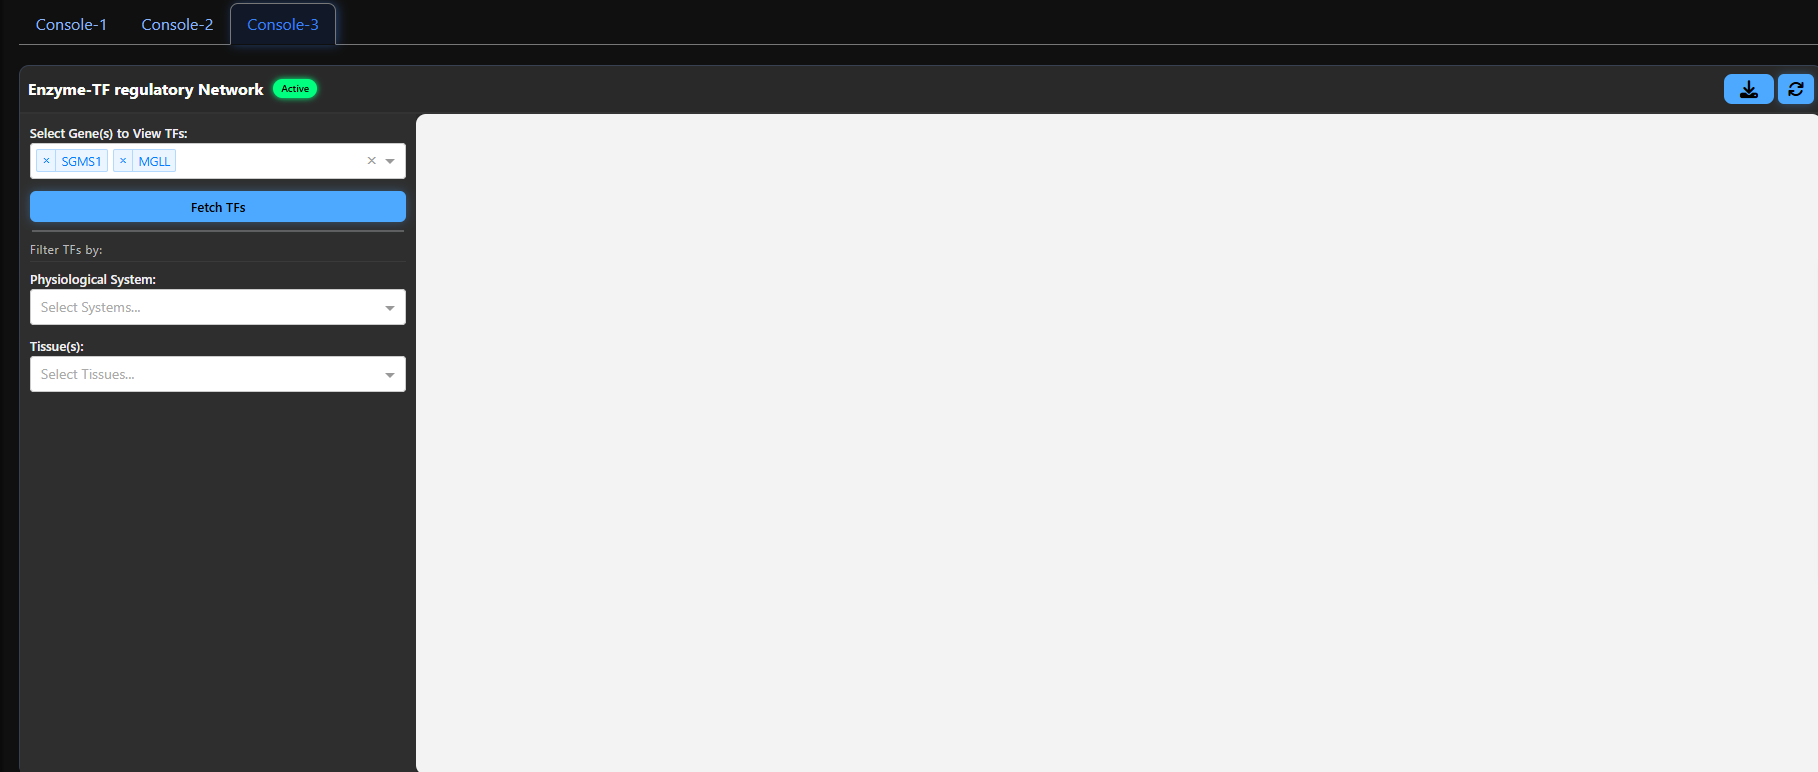
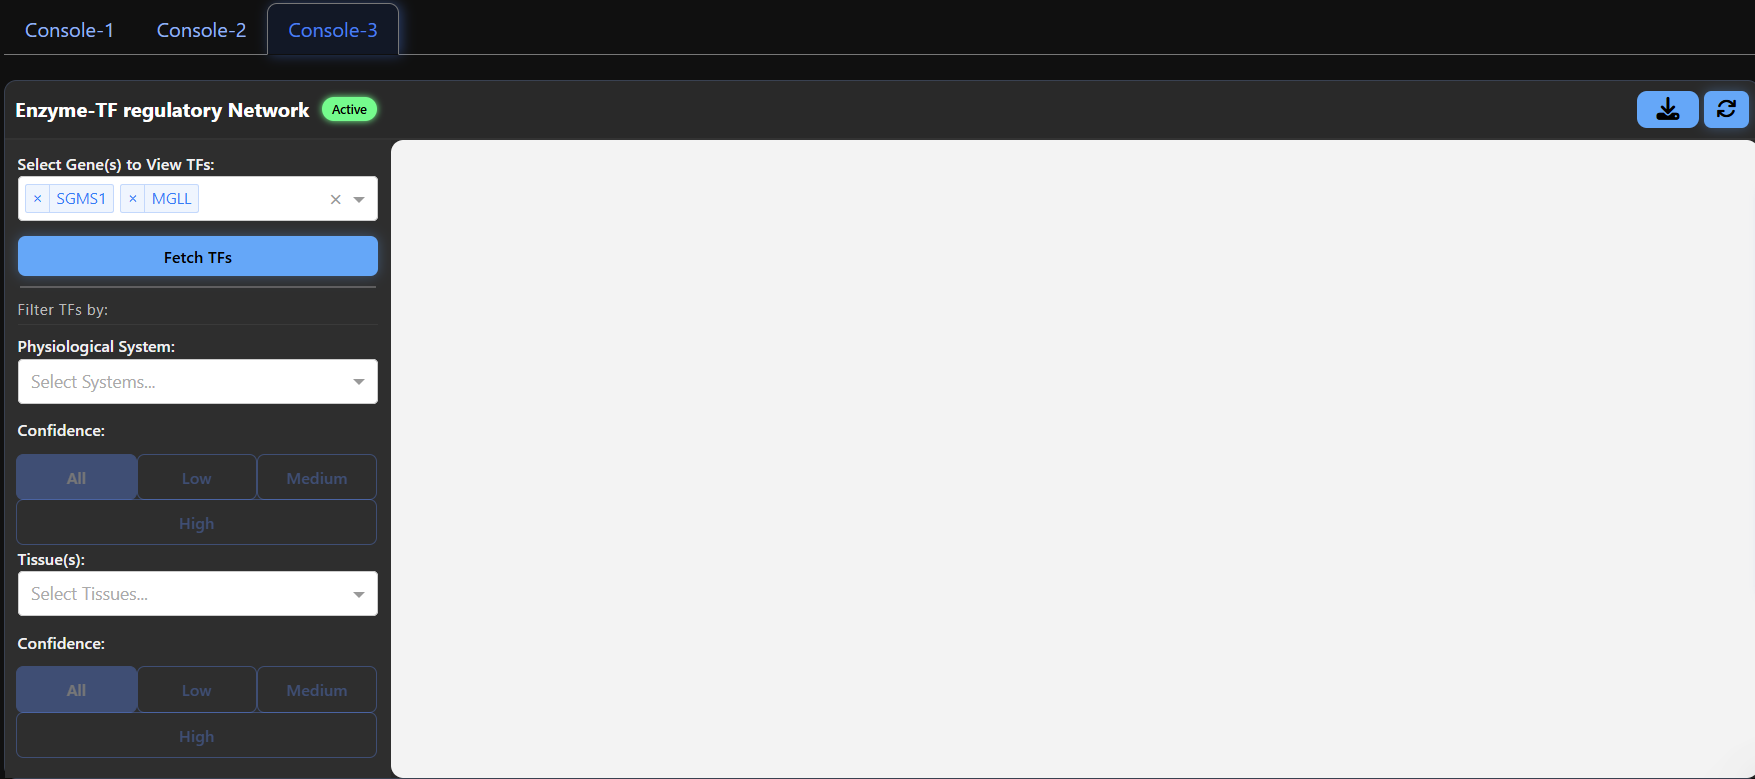
1. edited the tutorial 2. added the new video

diff --git a/src/pages/tutorial.py b/src/pages/tutorial.py
@@ -177,6 +177,7 @@ def InterpretationPanel(title="Output Interpretation", description=None, items=N
                     "color": "#d1d5db",
                     "lineHeight": "1.6",
                     "marginBottom": "12px",
+                    # "whiteSpace": "pre-line",
                 },
             ) if description else None,
 
@@ -274,16 +275,14 @@ section3 = HelpSection(
                             ),
 
         StepCard(1,header=None,description='''
-                    Select one or more enzymatic genes of interest or corresponding to 
-                    console 2 and click on the option “Fetch TFs” to retrieve corresponding 
-                    transcription factors in the regulatory network panel.
+                    Select one or more enzymatic genes of interest or corresponding to console 2 and click on the option “Fetch TFs” to retrieve corresponding transcription factors in the regulatory network panel.
                     ''',
                     points=[]
                  ), 
         FigurePlaceholder(src="assets/fig15_15.png",caption=None),
         
-        InterpretationPanel(description='''
-                           Feature: Console 3 renders a TF–gene regulatory network for the selected 
+        InterpretationPanel(title="Feature 1",description='''
+                            Console 3 renders a TF–gene regulatory network for the selected 
                             enzymatic genes, displaying the queried genes as green nodes and their 
                             corresponding transcription factors as pink rectangular nodes linked by regulatory 
                             interactions.
@@ -294,36 +293,59 @@ section3 = HelpSection(
         FigurePlaceholder(src="assets/fig16_16.png",caption=None),
         
     
-        InterpretationPanel(description='''
-                           Feature:  Filter the TFs regulating the query-associated enzymes by selecting a 
-                            Physiological System, such as “Gastrointestinal,” to restrict the TF–gene regulatory 
-                            network to that biological context.
-                            ''',
+        InterpretationPanel(title="Feature 2",description='''
+                            Filter the TFs regulating the query-associated enzymes by selecting a Physiological System, such as “Gastrointestinal,” which restricts the TF–gene regulatory network to that specific biological context. By default, the network displays all transcription factors corresponding to the selected physiological system for the queried enzymatic genes.
+                            ''', 
                             items=[
                             ]),
         
         FigurePlaceholder(src="assets/fig17_17.png",caption=None),
         
-        InterpretationPanel(description='''
-                            Feature: After selecting a physiological system, choose a tissue (e.g., 
-                            Gastrointestinal: stomach) to display only those TF regulators supported for the 
-                            query enzymes in that tissue context.
+        
+        
+        InterpretationPanel(title="Feature 3",description=['''
+                            The evidence table renders all TF regulators associated with the queried enzymatic genes across the corresponding tissues. Each row in the table represents a TF–gene interaction in respective tissue context, supporting experimental and associated PubMed literature references (if available), and the corresponding confidence score classes derived from physiological system–based and tissue-based recurrence scoring.
+                            ''',
+                            html.Br(),
+                            html.Br(),
+                            '''
+                            For instance, for the queried enzymatic gene MGLL, TF regulators such as ATF3, CDX2, and CEBPB are displayed across tissues, including colon, bone, and leukocytes, together with supporting PMIDs and their assigned Physiological Confidence and Tissue Confidence labels.
+                            '''],
+                            items=[ 
+                            ]),
+        
+        FigurePlaceholder(src="assets/fig20_20.png",caption=None),
+        
+        
+        
+        InterpretationPanel(title="Feature 4",description='''
+                            After selecting a Physiological System, users can further refine the results by choosing a specific tissue (e.g., Gastrointestinal: stomach). By default, all TF regulators and corresponding evidence entries supported within the selected tissue are displayed in both the TF gene regulatory network and the evidence table.
                             ''',
                             items=[
                             ]),
         
         FigurePlaceholder(src="assets/fig18_18.png",caption=None),
         
-        InterpretationPanel(description='''
-                           Feature: The evidence table lists the transcription factors queried for the selected 
-                            target genes (e.g., SGMS1 and MGLL) and summarizes their tissue-specific 
-                            regulatory interactions supported by SPP evidence, cell-line annotations, and 
-                            PubMed literature indexed in ChEA3, TRRUST v2, and SIGNOR, where available.
+        InterpretationPanel(title="Feature 5",description=[
+                            '''
+                            Users can further refine the TF–gene regulatory network by selecting a confidence class (High, Medium, or Low) under the Physiological System filter to display only TF regulators belonging to the chosen confidence category for the queried enzymatic genes.
                             ''',
+                            html.Br(),
+                            html.Br(),
+                            '''
+                            For example, when the user selects High confidence under the Gastrointestinal physiological system for SGMS1 and MGLL, the network displays only the high-confidence TF regulators supported within that physiological system, as shown in the figure.
+                            ''',
+                            html.Br(),
+                            html.Br(),
+                            '''
+                            If the user selects the High confidence option under the Tissue filter without choosing any specific tissue, the network displays TF regulators that are high-confidence within the selected physiological system, irrespective of tissue context. In this case, regulators such as YY1 and USF1 are excluded, indicating that they do not belong to the high-confidence class under the selected filter.
+                            '''
+                            ],
                             items=[
                             ]),
         
         FigurePlaceholder(src="assets/fig19_19.png",caption=None),
+        FigurePlaceholder(src="assets/fig21_21.png",caption=None),
     ]
 )
 
@@ -343,8 +365,8 @@ section2 = HelpSection(
                  ), 
         FigurePlaceholder(src="assets/fig11_11.png",caption=None),
         
-        InterpretationPanel(description='''
-                            Feature: Selected enzymatic genes are highlighted in sky blue, enabling direct 
+        InterpretationPanel(title="Feature 1.1",description='''
+                            Selected enzymatic genes are highlighted in sky blue, enabling direct 
                             identification of the queried genes within the reaction-level network.
                             ''',
                             items=[
@@ -353,17 +375,15 @@ section2 = HelpSection(
         FigurePlaceholder(src="assets/fig12_12.png",caption=None),
         
     
-        InterpretationPanel(description='''
-                            Feature: For each query, it summarizes the reaction level details of enzymatic 
-                            genes in tabular form, enlisting consistent substrates and products, and their 
-                            pathways.
+        InterpretationPanel(title="Feature 1.2",description='''
+                            Feature: For each query, it summarizes the reaction-level details of enzymatic genes in tabular form, listing consistent substrates and products, along with their pathways. Network and tables in console 2 are also downloadable. 
                             ''',
                             items=[
                             ]),
         
         FigurePlaceholder(src="assets/fig13_13.png",caption=None),
         
-        InterpretationPanel(description='''
+        InterpretationPanel(title="Feature 1.3",description='''
                             Feature: The reaction network also displays co-participating genes as green 
                             rectangular nodes. Selecting a reaction edge reveals the corresponding biochemical 
                             reaction type (e.g., synthesis, hydrolysis, thiolysis, etc). 
@@ -400,8 +420,8 @@ section1 = HelpSection(
         
         FigurePlaceholder(src="assets/fig3_3.png",caption =None),
         
-        InterpretationPanel(description='''
-                            Feature: Queried lipids, central biochemical nodes(Ceramide, Glycerol, 
+        InterpretationPanel(title="Feature 1",description='''
+                            Queried lipids, central biochemical nodes(Ceramide, Glycerol, 
                             Monoacylglycerol, etc), and non-lipid metabolites are represented by sky blue, 
                             blue, and orange nodes, respectively, to facilitate visual distinction within the 
                             network. It also highlights directly involved biochemical reactions, metabolites and 
@@ -426,8 +446,8 @@ section1 = HelpSection(
         
         
         
-        InterpretationPanel(description='''
-                            Feature: This option hides the second-level branched chains arising from ceramide 
+        InterpretationPanel(title="Feature 2.1",description='''
+                            This option hides the second-level branched chains arising from ceramide 
                             and phosphatidylcholine, retaining only the pathways directly connected to the 
                             queried lipid. The corresponding entities are highlighted as query nodes in sky blue 
                             for clear visual distinction. Selecting the “Full Network” option restores the hidden 
@@ -438,8 +458,8 @@ section1 = HelpSection(
         
         FigurePlaceholder(src="assets/fig7_7.png",caption=None),
         
-        InterpretationPanel(description='''
-                            Feature: Pathway evidence table listing queried lipid species, their associated 
+        InterpretationPanel(title="Feature 2.2",description='''
+                            Pathway evidence table listing queried lipid species, their associated 
                             pathways, and supporting source databases, with column-wise filtering options.
                             ''',
                             items=[
@@ -447,41 +467,28 @@ section1 = HelpSection(
         
         FigurePlaceholder(src="assets/fig8_8.png",caption=None),
         
-        InterpretationPanel(description='''
-                            Feature: Console 1 network can be exported in SVG, JSON for network graph and 
-                            CSV formats for table. Download and refresh controls are provided for saving the 
-                            current view and restoring the network visualization.
+        InterpretationPanel(title="Feature 2.3",description='''
+                            Console 1's network can be exported as SVG and JSON for the network graph and as CSV for the table. Download and refresh controls are provided to save the current view and restore the network visualization.
                             ''',
                             items=[
                             ]),
         
         FigurePlaceholder(src="assets/fig9_9.png",caption=None),
         
-        InterpretationPanel(description='''
-                                Feature: Interactive legend panel: An expandable legend panel explains the node 
+        InterpretationPanel(title="Feature 2.4",description="",
+                            items=[
+                                ("Interactive legend panel",'''Interactive legend panel: An expandable legend panel explains the node 
                                 types and edge categories used in the network, including query nodes, metabolites, 
                                 genes, reaction nodes, substrate/product edges, modifier edges, regulatory edges, 
-                                and directly involved reactions.
-                                
-                                Feature: Metabolite database links: connects metabolite nodes to ChEBI, PubChem 
-                                or  KEGG.
-                                ''',
-                            items=[
+                                and directly involved reactions.''')
                             ]),
 
         FigurePlaceholder(src="assets/fig10_10.png",caption=None),
         
-        InterpretationPanel(description='''                                
-                                Feature: Metabolite database links: connects metabolite nodes to ChEBI, PubChem 
-                                or  KEGG.
-                                ''',
+        InterpretationPanel(title="Feature 2.5",description="",
                             items=[
-                            ]),
-        
-        InterpretationPanel(description='''                                
-                                Protein database links: connects gene and TF nodes to UniProt.
-                                ''',
-                            items=[
+                                ("Metabolite database links","connects metabolite nodes to ChEBI, PubChem or  KEGG"),
+                                ("Protein database links","Connects gene and TF nodes to UniProt")
                             ]),
     ]
 )

diff --git a/src/pages/home.py b/src/pages/home.py
@@ -264,14 +264,15 @@ layout = html.Div([
     
     html.Div(
         html.Iframe(
-            src="https://www.youtube.com/embed/wq64mcSQFG8",
+            src="https://www.youtube.com/embed/c5akhywyLp4",
             style={
                 "width": "100%",
                 "height": "450px",
                 "border": "none"
-            }
+            },
+            allow="accelerometer; autoplay; clipboard-write; encrypted-media; gyroscope; picture-in-picture",
         ),
-        style={"maxWidth": "900px", "margin" : "80px auto"}
+        style={"maxWidth": "900px", "margin": "80px auto"}
     ),
     
     
